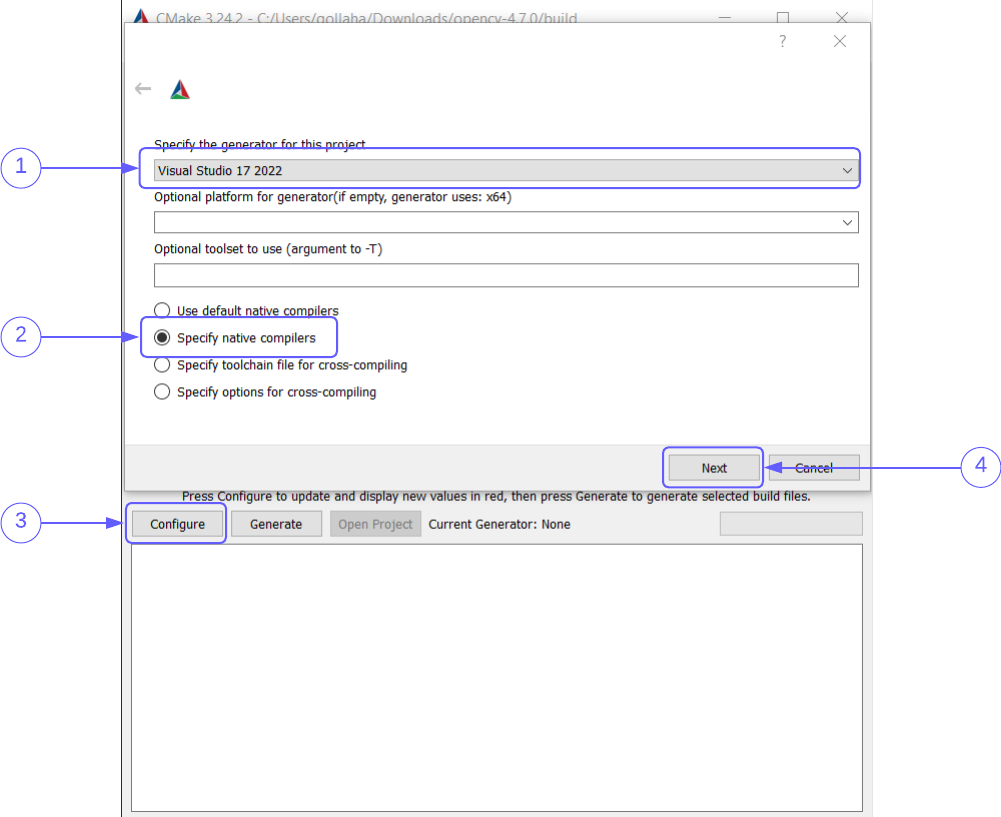
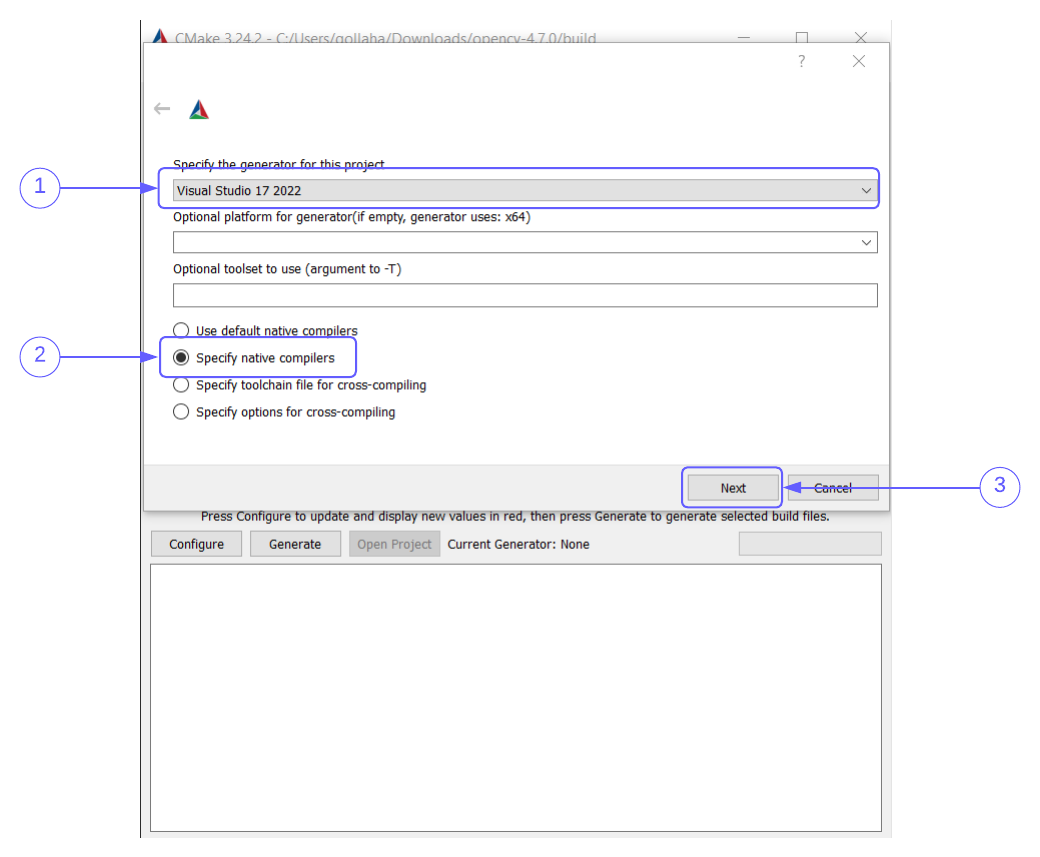
Additional fixes

diff --git a/content/blog/build-opencv-with-visual-studio-and-cmake-gui.md b/content/blog/build-opencv-with-visual-studio-and-cmake-gui.md
@@ -1,11 +1,11 @@
 ---
 title: "Build OpenCV With Visual Studio and CMake GUI"
-date: 2023-02-17T12:15:12+13:00
+date: 2023-02-25T12:15:12+13:00
 draft: false
-categories: []
-tags: []
-description: ""
-images: []
+categories: ["C++"]
+tags: ["C++", "OpenCV", "Visual Studio", "CMake"]
+description: "This blog is a tutorial on how to build OpenCV with Visual Studio and CMake GUI. It includes two parts: generating OpenCV build files using CMake GUI and building OpenCV using Visual Studio 2022 Community. The tutorial provides step-by-step instructions and tips and tricks for the process."
+images: ["/img/blog/build-opencv-with-visual-studio-and-cmake/Build-OpenCV-with-Visual-Studio-and-CMake-GUI-cover.png", "/img/blog/build-opencv-with-visual-studio-and-cmake/cmake-gui.png", "/img/blog/build-opencv-with-visual-studio-and-cmake/cmake-gui-after-configure.png", "/img/blog/build-opencv-with-visual-studio-and-cmake/cmake-gui-build-opencv-world.png", "/img/blog/build-opencv-with-visual-studio-and-cmake/cmake-gui-compiler-setup.png", "/img/blog/build-opencv-with-visual-studio-and-cmake/cmake-gui-generator.png", "/img/blog/build-opencv-with-visual-studio-and-cmake/cmake-gui-install-prefix.png", "/img/blog/build-opencv-with-visual-studio-and-cmake/cmake-gui-set-environment-variables.png", "/img/blog/build-opencv-with-visual-studio-and-cmake/cmake-gui-source-build-path.png", "/img/blog/build-opencv-with-visual-studio-and-cmake/vs-solution-explorer.png"]
 ads: true
 video: false
 # htmlScripts: []
@@ -21,16 +21,34 @@ author:
 sitemap:
   priority: 0.8
   changeFreq: monthly
-# siteMapImages:
-#   - imageLoc: ""
-#     imageCaption: ""
+siteMapImages:
+  - imageLoc: "/img/blog/build-opencv-with-visual-studio-and-cmake/Build-OpenCV-with-Visual-Studio-and-CMake-GUI-cover.png"
+    imageCaption: "Build OpenCV With Visual Studio and CMake GUI"
+  - imageLoc: "/img/blog/build-opencv-with-visual-studio-and-cmake/cmake-gui.png"
+    imageCaption: "CMake GUI"
+  - imageLoc: "/img/blog/build-opencv-with-visual-studio-and-cmake/cmake-gui-after-configure.png"
+    imageCaption: "CMake GUI after configure"
+  - imageLoc: "/img/blog/build-opencv-with-visual-studio-and-cmake/cmake-gui-build-opencv-world.png"
+    imageCaption: "CMake GUI build opencv_world"
+  - imageLoc: "/img/blog/build-opencv-with-visual-studio-and-cmake/cmake-gui-compiler-setup.png"
+    imageCaption: "CMake GUI compiler setup"
+  - imageLoc: "/img/blog/build-opencv-with-visual-studio-and-cmake/cmake-gui-generator.png"
+    imageCaption: "CMake GUI generator"
+  - imageLoc: "/img/blog/build-opencv-with-visual-studio-and-cmake/cmake-gui-install-prefix.png"
+    imageCaption: "CMake GUI install prefix"
+  - imageLoc: "/img/blog/build-opencv-with-visual-studio-and-cmake/cmake-gui-set-environment-variables.png"
+    imageCaption: "CMake GUI set environment variables"
+  - imageLoc: "/img/blog/build-opencv-with-visual-studio-and-cmake/cmake-gui-source-build-path.png"
+    imageCaption: "CMake GUI source build path"
+  - imageLoc: "/img/blog/build-opencv-with-visual-studio-and-cmake/vs-solution-explorer.png"
+    imageCaption: "Visual Studio solution explorer"
 ---
 
 <!--adsense-->
 
-If you have every used OpenCV, you would know that it is a very powerful library for image processing. It is very easy to use and has a lot of functions that can be used to perform a lot of image processing tasks. In this post, I will show you how to build OpenCV with Visual Studio and Cmake.
+If you have ever used OpenCV, you would know that it is a very powerful library for image processing. This is owing to ease in usage and availability of multiple functions which can be utilised to perform a variety of image processing tasks. In this post, we will explore the steps on how to build OpenCV with Visual Studio and Cmake GUI.
 
-There are two parts in this post:
+There are two parts to this blog:
 
 1. Generating OpenCV build files using CMake GUI
 2. Building OpenCV using Visual Studio 2022 Community
@@ -43,7 +61,7 @@ There are two parts in this post:
   - [Step 2: Download OpenCV](#step-2-download-opencv)
   - [Step 3: Open CMake GUI](#step-3-open-cmake-gui)
   - [Step 4: Set the source and build directories](#step-4-set-the-source-and-build-directories)
-  - [Step 5: Configure build](#step-5-configure-build)
+  - [Step 5: Configure build and compiler settings](#step-5-configure-build-and-compiler-settings)
   - [Step 6: Set install location and generate build files](#step-6-set-install-location-and-generate-build-files)
 - [Part 2: Building OpenCV using Visual Studio 2022 Community](#part-2-building-opencv-using-visual-studio-2022-community)
 - [Few tips and tricks](#few-tips-and-tricks)
@@ -52,17 +70,18 @@ There are two parts in this post:
   - [Build `opencv_world` library](#build-opencv_world-library)
 - [Conclusion](#conclusion)
 
+<!--adsense-->
 
 ## Prerequisites
 
-Before you start, you need to have the following installed on your computer:
+Before we begin, you need to have the following on your computer:
 
-1. [Visual Studio 2022 Community](https://visualstudio.microsoft.com/downloads/) with C++ support - I am using Visual Studio 2022 Community edition.
+1. [Visual Studio 2022 Community](https://visualstudio.microsoft.com/downloads/) with C++ support
 2. [CMake](https://cmake.org/download/) - I am using CMake 3.24.
 3. [OpenCV](https://opencv.org/releases/) - I am using OpenCV 4.7.0.
 4. [Python](https://www.python.org/downloads/) - I am using Python 3.10.
 
-> Note: Though, CMake is installed with Visual Studio, I would recommend installing it separately as well. This will make it easier to use CMake with other IDEs. Also, we will be using cmake-gui to build OpenCV.
+> Note: Though, CMake is installed with Visual Studio, I would also recommend installing it separately. This will make it easier to use CMake with other IDEs.
 
 ## Part 1: Generating OpenCV build files using CMake GUI
 
@@ -70,16 +89,18 @@ Fun part! Let's build OpenCV.
 
 ### Step 1: Know where to find the files
 
-First, find the location of VSC Compiler and CMake. VSC uses `cl.exe` as the compiler and CMake uses `cmake.exe`. You can find the location of these files in the following locations:
+First, find the location of VSC Compiler and CMake. VSC uses `cl.exe` as the compiler and CMake GUI uses `cmake-gui.exe`. You can find these files in the following locations:
 
 - For Visual Studio 2022 Community - `C:\Program Files\Microsoft Visual Studio\2022\Community\VC\Tools\MSVC\14.34.31933\bin\Hostx64\x64\cl.exe`
-- For CMake - `C:\Program Files\CMake\bin`
+- For CMake - `C:\Program Files\CMake\bin\cmake-gui.exe`
 
-> Note: The version of the compiler could be different. You can find the version of the compiler in the following location - `C:\Program Files\Microsoft Visual Studio\2022\Community\VC\Auxiliary\Build\Microsoft.VCToolsVersion.default.txt`. Or you can also select the latest compiler from `C:\Program Files\Microsoft Visual Studio\2022\Community\VC\Tools\MSVC\`.
+> Note: The version of the compiler could be different. You can find the version of the compiler in - `C:\Program Files\Microsoft Visual Studio\2022\Community\VC\Auxiliary\Build\Microsoft.VCToolsVersion.default.txt`. Or, you can also select the latest compiler from `C:\Program Files\Microsoft Visual Studio\2022\Community\VC\Tools\MSVC\`.
 
 ### Step 2: Download OpenCV
 
-Download OpenCV from [here](https://opencv.org/releases/). I am using OpenCV 4.7.0. You can use any version of OpenCV that you want. Extract the zip file to a location of your choice. I am extracting it to `C:\Users\<user>\Downloads\opencv-4.7.0`. Open the extracted folder and create a new folder called `build`. This is where the build files will be generated.
+Download OpenCV from [https://opencv.org/releases](https://opencv.org/releases/). As mentioned previously, I am using OpenCV 4.7.0. You can use any version of OpenCV that you like. Extract the zip file to a location of your choice. I am extracting it to `C:\Users\<user>\Downloads\opencv-4.7.0`. Open the extracted folder and create a new folder called `build`. This is where the build files will be generated.
+
+<!--adsense-->
 
 ### Step 3: Open CMake GUI
 
@@ -89,7 +110,7 @@ Open CMake GUI. You can find it in the following location - `C:\Program Files\CM
 
 ### Step 4: Set the source and build directories
 
-Now, let's set the source and build directories, along with compiler and instillation location.
+Now, let's set the source and build directories.
 
 - Source Directory - `C:\Users\<user>\Downloads\opencv-4.7.0`
 - Build Directory - `C:\Users\<user>\Downloads\opencv-4.7.0\build`
@@ -98,18 +119,18 @@ This is how it should look like:
 
 {{< figure src="/img/blog/build-opencv-with-visual-studio-and-cmake/cmake-gui-source-build-path.png" title="CMake GUI Source and Build Path" alt="CMake GUI Source and Build Path" width="300" >}}
 
-### Step 5: Configure build
+### Step 5: Configure build and compiler settings
 
-In this step we will configure the build with appropriate compiler location.
+In this step, we will configure the build with appropriate compiler location.
 
 1. Click on `Configure`, this should open a pop-up window. Select `Visual Studio 17 2022` and from the options, select `Specify native compilers`. This should look like:
 
-  {{< figure src="/img/blog/build-opencv-with-visual-studio-and-cmake/cmake-gui-generator.png" title="CMake GUI Configure Generator" alt="CMake GUI Configure" width="300" >}}
+  {{< figure src="/img/blog/build-opencv-with-visual-studio-and-cmake/cmake-gui-generator.png" title="CMake GUI Configure Generator" alt="CMake GUI Configure" width="300" caption="1. Select Visual Studio 17 2022 from the drop down. 2. Select \"Specify native compilers\". 3. Click \"Next\" to go to next screen" >}}
 
-2. Now, click on `Next`. This should take you to a place where you can set native compiler location. Remember the `cl.exe` location? That's what we have to set here. Set the following variables:
+2. Now, click on `Next`. This should take you to a place where you can set the native compiler location. Remember the `cl.exe` location? That's what we have to set here. Set the following variables:
    - Under `C` and `C++` fields, set it to `C:\Program Files\Microsoft Visual Studio\2022\Community\VC\Tools\MSVC\14.34.31933\bin\Hostx64\x64\cl.exe`
 
-  {{< figure src="/img/blog/build-opencv-with-visual-studio-and-cmake/cmake-gui-compiler-setup.png" title="CMake GUI Configure Compiler" alt="CMake GUI Configure Compiler" width="300" >}}
+  {{< figure src="/img/blog/build-opencv-with-visual-studio-and-cmake/cmake-gui-compiler-setup.png" title="CMake GUI Configure Compiler" alt="CMake GUI Configure Compiler" width="300" caption="1. Add in the compiler path. And 2. Click \"Finish\"" >}}
 
 And finally, click on `Finish`. This should take you back to the CMake GUI window and generate the build files. This will take some time; and should look like:
 
@@ -117,25 +138,27 @@ And finally, click on `Finish`. This should take you back to the CMake GUI windo
 
 > Note: Create a folder called `install` in the build directory, if it does not exist.
 
+<!--adsense-->
+
 ### Step 6: Set install location and generate build files
 
-In the search filed, type in `search` and search for `CMAKE_INSTALL_PREFIX`. Edit `CMAKE_INSTALL_PREFIX` value by double-clicking on it and set it to `C:\Users\<user>\Downloads\opencv-4.7.0\build\install`. This should look like:
+In the search field, search for `CMAKE_INSTALL_PREFIX`. Edit `CMAKE_INSTALL_PREFIX` value by double-clicking on it and set it to `C:\Users\<user>\Downloads\opencv-4.7.0\build\install`. This should look like:
 
-{{< figure src="/img/blog/build-opencv-with-visual-studio-and-cmake/cmake-gui-install-prefix.png" title="CMake GUI Configure Installation Path" alt="CMake GUI Configure Installation Path" width="300" >}}
+{{< figure src="/img/blog/build-opencv-with-visual-studio-and-cmake/cmake-gui-install-prefix.png" title="CMake GUI Configure Installation Path" alt="CMake GUI Configure Installation Path" width="300" caption="1. In the search field, type in \"install\". 2. Edit \"CMAKE_INSTALL_PREFIX\" to add the install path. 3. Click \"Generate\"" >}}
 
-Once you have setup the install path, click on `Generate`. This should generate visual studio solution files.
+Once you have setup the install path, click on `Generate`. This should generate Visual Studio solution files.
 
 ## Part 2: Building OpenCV using Visual Studio 2022 Community
 
-> Warning: This will take a lot of time. So, go grab a cup of coffee.
+> Warning: This will take a lot of time. So, go grab a cup of coffee (or even tea).
 
-Once the Visual Studio solutions files are generated, you can either click on `Open Project`, beside the `Generate` button. Or go to `C:/Users/<user>/Downloads/opencv-4.7.0/build` and click `OpenCV.sln`. This should open Visual Studio 2022 Community.
+Once the Visual Studio solution files are generated, you can either click on `Open Project`, beside the `Generate` button. Or go to `C:/Users/<user>/Downloads/opencv-4.7.0/build` and click `OpenCV.sln`. This should open Visual Studio 2022 Community.
 
 In your solutions explorer, under `CMakeTargets`, you should see `INSTALL`. Right-click on `INSTALL` and select `Build`. This should build OpenCV.
 
 {{< figure src="/img/blog/build-opencv-with-visual-studio-and-cmake/vs-solution-explorer.png" title="Visual Studio Build" alt="Visual Studio Build" width="300" >}}
 
-Once the build is complete, you can find the OpenCV binaries in the following location: 
+Once the build is complete, you can find the OpenCV files/binaries in the following locations: 
 
 - Include files - `C:\Users\<user>\Downloads\opencv-4.7.0\build\install\include\opencv2`
 - Binaries - `C:\Users\<user>\Downloads\opencv-4.7.0\build\install\x64\vc17\bin`
@@ -143,13 +166,17 @@ Once the build is complete, you can find the OpenCV binaries in the following lo
 
 ## Few tips and tricks
 
+These are some tips and tricks that I have learnt while building OpenCV using Visual Studio 2022 Community and CMake GUI.
+
+<!--adsense-->
+
 ### CMake for Visual Studio
 
 CMake for Visual Studio can be found in - `C:\Program Files\Microsoft Visual Studio\2022\Community\Common7\IDE\CommonExtensions\Microsoft\CMake`
 
 ### An alternate way to set compiler location
 
-An alternate to [Step 5](#step-5-configure-build), we can manually set the compiler location in the environment variables. Do the following:
+As an alternative to [Step 5](#step-5-configure-build-and-compiler-settings), we can manually set the compiler location in the environment variables. Do the following:
 
 For the compiler, click on `Environment` button on top right of the window and set the following variables:
 
@@ -158,9 +185,11 @@ For the compiler, click on `Environment` button on top right of the window and s
 
 These should look like:
 
-{{< figure src="/img/blog/build-opencv-with-visual-studio-and-cmake/cmake-gui-set-environment-variables.png" title="CMake GUI set compiler environment variables" alt="CMake GUI set compiler environment variables" width="300" >}}
+{{< figure src="/img/blog/build-opencv-with-visual-studio-and-cmake/cmake-gui-set-environment-variables.png" title="CMake GUI set compiler environment variables" alt="CMake GUI set compiler environment variables" width="300" caption="1. Click on \"Environment\" button, this will open \"Environment Editor\". 2. Click on \"+ Add Entry\". 3. Edit \"Name\" and \"Value\" with the compiler type and path. 4. Click on \"OK\" to save and close the window. 5. Once, both variables are added click on \"OK\" in \"Environment Editor\"." >}}
 
 And finally, click on option `Use default native compilers` and click on `Finish`.
+
+<!--adsense-->
 
 ### Build `opencv_world` library
 
@@ -170,10 +199,12 @@ By default, CMake will build individual libraries for each module. If you want t
 
 {{< figure src="/img/blog/build-opencv-with-visual-studio-and-cmake/cmake-gui-build-opencv-world.png" title="CMake GUI build opencv_world" alt="CMake GUI build opencv_world" width="300" >}}
 
-2. Click on `Configure` and then `Generate`. This should generate the build files. Now, you can build the `INSTALL` target as mentioned in [Building OpenCV using Visual Studio 2022 Community](#building-opencv-using-visual-studio-2022-community).
+2. Click on `Configure` and then `Generate`. This should generate the build files. Now, you can build the `INSTALL` target as mentioned in [Building OpenCV using Visual Studio 2022 Community](#part-2-building-opencv-using-visual-studio-2022-community).
+
+<!--adsense-->
 
 ## Conclusion
 
-In this article, we have seen how to build OpenCV using Visual Studio 2022 Community and CMake. We have also seen how to set up the environment variables for CMake to use the compiler. I hope you found this article useful. If you have any questions, feel free to ask them in the comments section below.
+So now, we have seen how to build OpenCV using Visual Studio 2022 Community and CMake GUI. We have also seen how to set up the environment variables for CMake to use the compiler. I hope you found this article useful. If you have any questions, feel free to ask them in the comments section below.
 
 Until next time, happy coding!

diff --git a/content/blog/git-alias-over-engineered-pretty-git-alias-printer.md b/content/blog/git-alias-over-engineered-pretty-git-alias-printer.md
@@ -4,7 +4,7 @@ date: 2022-12-06T23:02:37+13:00
 draft: false
 categories: ["CLI"]
 tags: ["Golang", "CLI Utility", "Git"]
-description: ""
+description: "A simple CLI utility to list all the aliases in a pretty format."
 images: ["/img/blog/git-alias/git-alias-cover.gif", "/img/blog/git-alias/git-alias.png", "/img/blog/git-alias/git-alias-cover.png"]
 ads: true
 video: false
